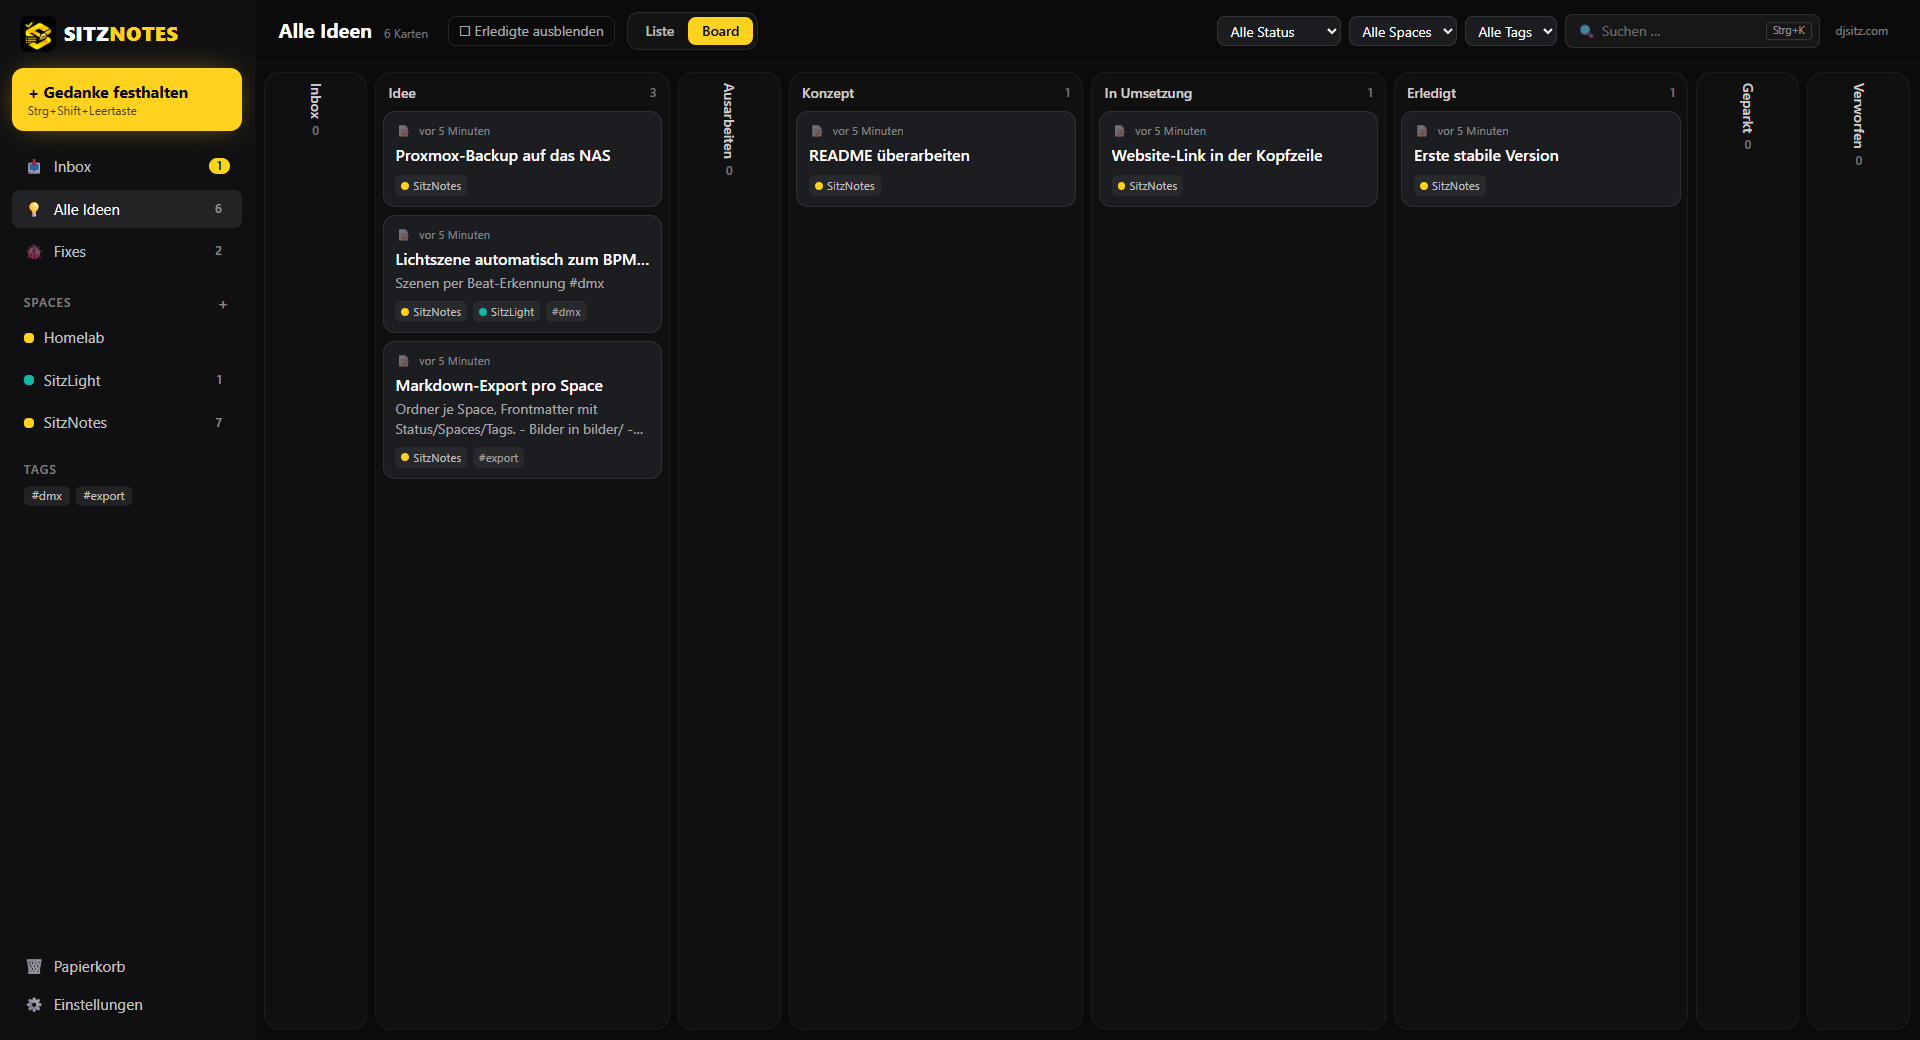
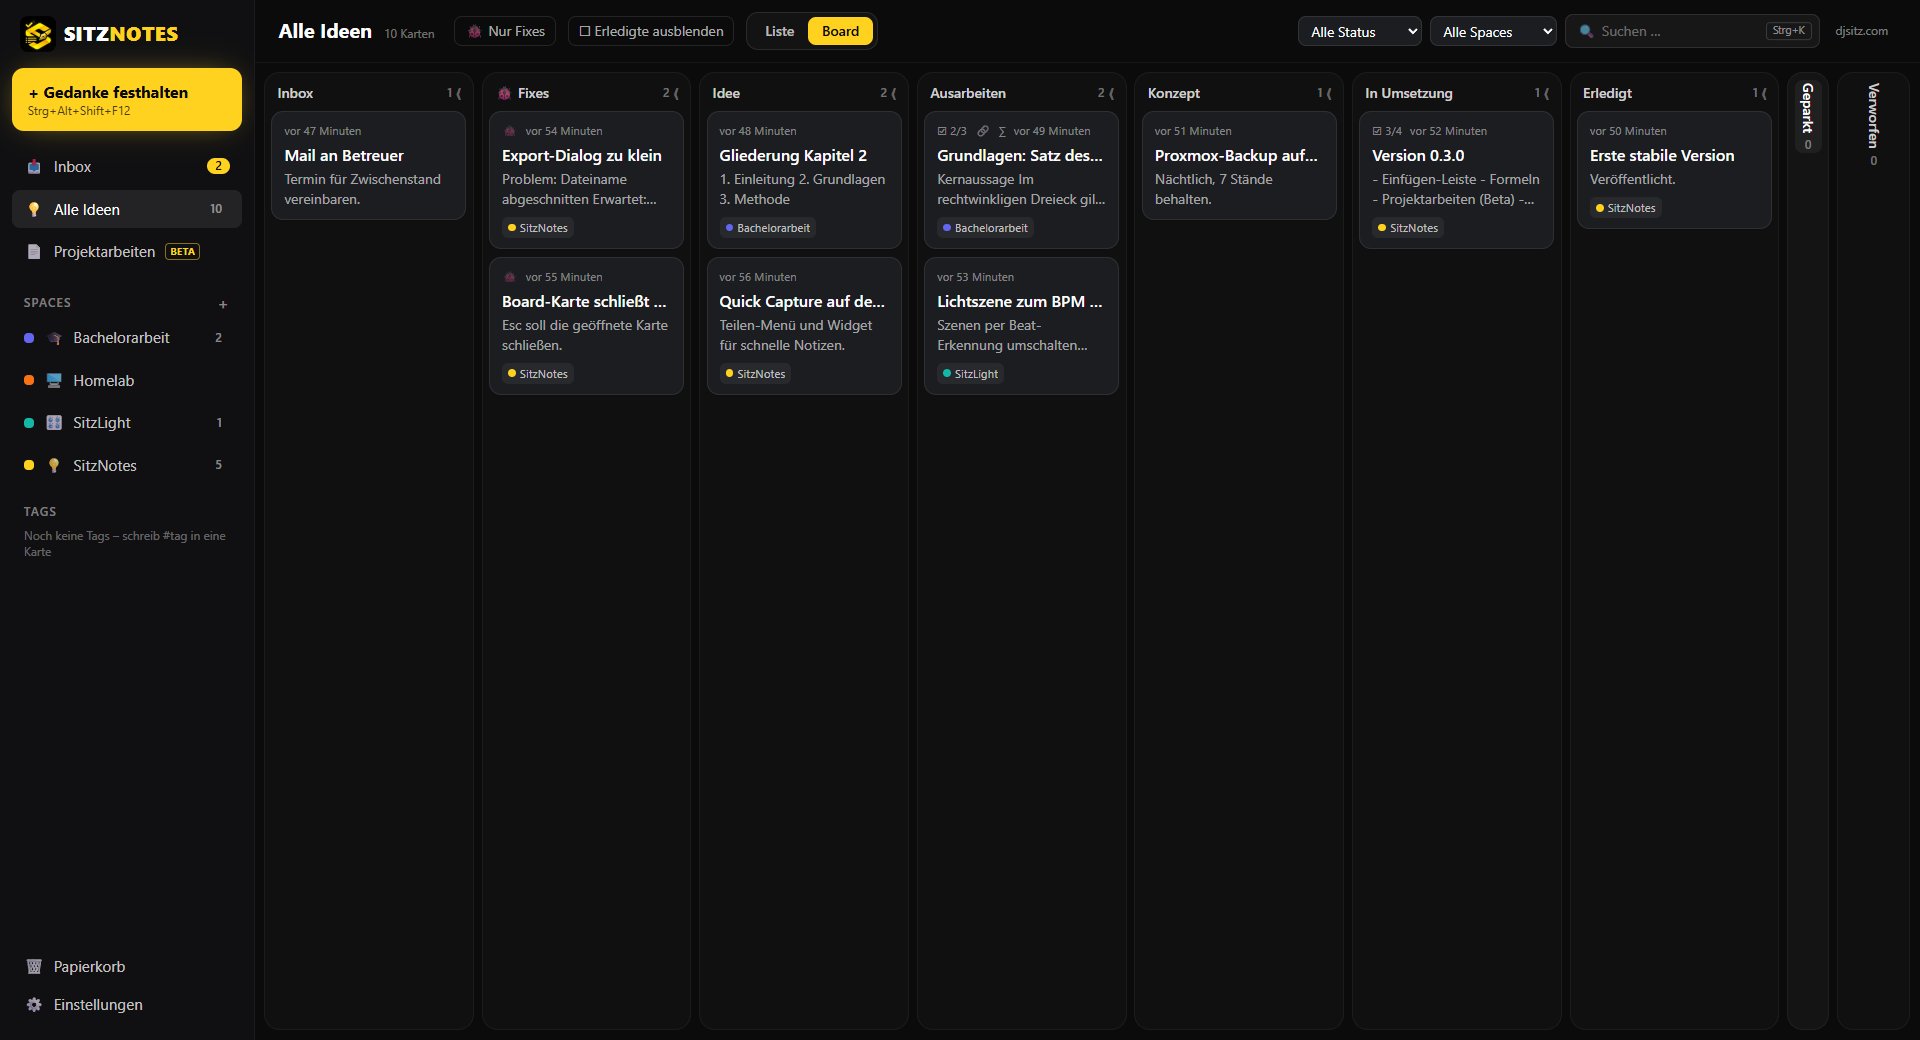
README: Funktionen, Updates in der App, Projektarbeiten (Beta) und Tipps zu v0.3.0

diff --git a/README.md b/README.md
@@ -30,20 +30,29 @@
 ## Was SitzNotes kann
 
 - **Quick Capture von überall:** Ein Tastenkürzel öffnet ein kleines Eingabefenster über allen Programmen – tippen, Enter, fertig. Der Gedanke landet in der **Inbox**.
-- **Karten** mit Titel und Text (Markdown: fett, Listen, Tabellen, Links …). Arten: Text, Link, Bild, Checkliste und **🐞 Fix**.
+- **Ein Gedanke kann alles enthalten:** Text, Überschriften, **Checklisten** (direkt abhakbar), Links, Tabellen, **Bilder** und **Formeln** gemischt in einem Inhalt (Markdown).
+- **Einfügen-Leiste** über dem Text – Überschrift, Checkliste, Bild, Link, Fix, Formel, Tabelle, Code – oder einfach **„/" tippen** (z. B. `/checkliste`, `/formel`).
+- **Formeln in LaTeX-Schreibweise:** `$E = mc^2$` im Text oder als eigener Block mit `$$ … $$`.
 - **Zuordnen:** Spaces (Projekte/Themen mit Farbe und Icon), Tags (`#tag` im Text wird automatisch erkannt), Status von „Inbox" bis „Erledigt". SitzNotes schlägt passende Spaces vor („gehört wahrscheinlich zu …"). Eine Karte kann in mehreren Spaces liegen.
 - **Verknüpfungen** zwischen Karten: gehört zu, inspiriert von, blockiert, Alternative zu, Teil von.
-- **Fixes:** eigener Bereich für Fehler und Korrekturen – getrennt von den Ideen, nach Space filterbar.
-- **Liste und Board** (Kanban nach Status mit Drag & Drop), Schalter **„Erledigte ausblenden"**.
+- **Fixes 🐞:** eigene Spalte im Board direkt nach der Inbox; Schalter **„Nur Fixes"** zeigt nur Fehler und Korrekturen.
+- **Liste und Board** (Kanban nach Status mit Drag & Drop), **Spalten auf- und zuklappbar**, Schalter **„Erledigte ausblenden"**.
+- **Projektarbeiten (Beta):** wissenschaftliche Arbeiten, Bachelorarbeiten und andere Dokumente in **LaTeX** schreiben – mit **PDF-Vorschau** daneben, die sich nach dem Tippen selbst erneuert, verständlicher **Fehleranzeige** (Klick springt zur Zeile), Vorlage **„Wissenschaftliche Arbeit (deutsch)"** (Titelseite, Verzeichnisse, Literatur, deutsche Silbentrennung), deinen Notizen zum Einfügen und Export als PDF oder ZIP. Bestehende LaTeX-Projekte lassen sich als Kopie importieren.
 - **Volltextsuche** (auch Wortanfänge, Umlaute egal), Filter nach Status/Space/Tag, **Schnellsuche mit Strg+K**.
 - **Bilder** per Drag & Drop oder Einfügen (z. B. Bildschirmausschnitt).
 - **Export & Import:** alles oder einzelne Spaces als `.sitznotes`-Datei (Import führt zusammen, nichts wird doppelt) und als **Markdown + Bilder** – ein Ordner je Space, lesbar in jedem Editor oder z. B. in Obsidian.
 - **Automatische Sicherung** täglich (die letzten 10 Stände) und **vor jedem Update**.
+- **Updates direkt in SitzNotes:** Hinweis mit den Neuerungen, „Jetzt installieren" oder „Später" – nie ungefragt.
+- **Papierkorb** mit „Endgültig löschen" und „Papierkorb leeren" (mit Sicherheitsabfrage), auf Wunsch automatisch nach einer gewählten Zahl von Tagen.
 - **Passt sich deinem Monitor an:** von Laptop bis 4K, mit jeder Windows-Skalierung und auf Retina-Displays.
 - Dunkles Design, alle Links öffnen im Standard-Browser.
 
 <p align="center">
-  <img src="assets/screenshots/sitznotes-board.png" alt="SitzNotes: Board nach Status" width="900">
+  <img src="assets/screenshots/sitznotes-board.png" alt="SitzNotes: Board nach Status mit Fixes-Spalte" width="900">
+</p>
+
+<p align="center">
+  <img src="assets/screenshots/sitznotes-projektarbeit.png" alt="SitzNotes: Projektarbeit mit LaTeX-Editor und PDF-Vorschau (Beta)" width="900">
 </p>
 
 ## Installation
@@ -65,8 +74,17 @@ Mit `SHA256SUMS.txt` kannst du prüfen, ob der Download unverändert ist.
 
 ### Updates
 
-**Neue Version einfach über die alte installieren – deine Daten bleiben erhalten.**
-Vor jeder Umstellung der Datenbank legt SitzNotes automatisch eine Sicherung an
+**Ab Version 0.3.0 kommen Updates direkt in SitzNotes:** Gibt es eine neue Version, erscheint oben ein dezenter Hinweis
+mit Versionsnummer und Neuerungen – **„Jetzt installieren"** oder **„Später"**. Es wird nie ungefragt installiert.
+Selbst suchen: **Einstellungen → Updates → „Nach Updates suchen"**; die automatische Suche (beim Start und alle 6 Stunden)
+lässt sich dort abschalten. Updates sind digital signiert – SitzNotes installiert nur Updates, die wirklich von SitzNotes stammen.
+
+Von Version 0.1.0 oder 0.2.0 aus installierst du 0.3.0 einmal von Hand: **einfach über die alte Version installieren – deine Daten bleiben erhalten**
+und werden automatisch ins neue Format übernommen (Link-, Bild-, Checklisten- und Fix-Karten werden zu normalen Gedanken mit diesem Inhalt).
+Nimm dafür **dasselbe Paket wie bei der ersten Installation** – wer mit dem `.msi` installiert hat, wieder das `.msi`, sonst die `setup.exe`.
+In-App-Updates erkennen das selbst.
+
+Vor jedem Update und jeder Umstellung der Datenbank legt SitzNotes automatisch eine Sicherung an
 (`Sicherungen/vor-update-<version>-<datum>` im Datenordner, zusätzlich in deinem gewählten Sicherungsordner).
 Geht dabei etwas schief, wird der alte Stand wiederhergestellt – SitzNotes läuft nie mit halb umgestellten Daten weiter.
 
@@ -86,37 +104,52 @@ und die Sicherungen darin gelöscht.
 | **Strg+K** | Schnellsuche über alle Karten |
 | **↑ / ↓** (oder J / K) | durch die Liste bewegen |
 | **S** / **T** | Space bzw. Tag zuordnen |
-| **1 – 8** | Status setzen (Inbox … Verworfen) |
+| **1 – 9** | Status setzen (Inbox, Fixes, Idee … Verworfen) |
 | **Enter** | Vorschlag „gehört wahrscheinlich zu …" annehmen |
 | **Entf** | in den Papierkorb |
 | **Strg+Enter** oder **Esc** | beim Bearbeiten: **Fertig** |
+| **/** | beim Bearbeiten: Baustein einfügen (Checkliste, Formel, Bild …) |
+| **Strg+S** | in einer Projektarbeit: speichern und PDF sofort erzeugen |
 | **Esc** | Karte schließen |
 
 Auf dem Mac jeweils **⌘** statt **Strg**.
 
 ## Tipps zur Nutzung
 
-- **Erst festhalten, später sortieren.** Mit dem Quick-Capture-Kürzel schreibst du den Gedanken in Sekunden auf, ohne das aktuelle Programm zu verlassen. Die erste Zeile wird zum Titel, ein reiner Link wird zur Link-Karte.
-- **Inbox-Routine:** Einmal am Tag die Inbox öffnen und mit der Tastatur durchgehen – **S** für den Space, **T** für Tags, **1–8** für den Status, **Enter** übernimmt den Vorschlag. Ziel: Inbox leer.
+- **Erst festhalten, später sortieren.** Mit dem Quick-Capture-Kürzel schreibst du den Gedanken in Sekunden auf, ohne das aktuelle Programm zu verlassen. Die erste Zeile wird zum Titel, der Rest zum Inhalt.
+- **Inbox-Routine:** Einmal am Tag die Inbox öffnen und mit der Tastatur durchgehen – **S** für den Space, **T** für Tags, **1–9** für den Status, **Enter** übernimmt den Vorschlag. Ziel: Inbox leer.
+- **Alles in einen Gedanken:** Notiz schreiben, mit **/checkliste** Aufgaben dazu, ein Bildschirmfoto mit **Strg+V** direkt an die Stelle, eine Formel mit **/formel** – in der Vorschau hakst du Aufgaben direkt ab.
 - **Spaces für Projekte, Tags für Querschnittsthemen.** Ein Space ist z. B. „Homelab" oder „Musik", ein Tag z. B. `#idee-für-später` oder `#kaufen` – Tags schreibst du einfach mit `#` in den Text.
-- **Fehler gehören zu den Fixes.** Beginnt eine Quick-Capture-Notiz mit `fix:`, wird sie zur Fix-Karte 🐞. Im Bereich „Fixes" siehst du alle offenen Fehler, auf Wunsch nur die eines Space.
-- **Board für den Überblick:** Karten per Drag & Drop in die nächste Spalte ziehen; „Erledigte ausblenden" hält das Board übersichtlich.
+- **Fehler gehören zu den Fixes.** Beginnt eine Quick-Capture-Notiz mit `fix:`, landet sie in der Spalte „🐞 Fixes". Mit **„Nur Fixes"** in der Kopfzeile siehst du alle offenen Fehler, zusammen mit dem Space-Filter nur die eines Projekts.
+- **Board für den Überblick:** Karten per Drag & Drop in die nächste Spalte ziehen; Spalten, die du gerade nicht brauchst, per Klick auf den Spaltenkopf zuklappen; „Erledigte ausblenden" hält das Board übersichtlich.
+- **Projektarbeit neben den Notizen:** Ordne die Projektarbeit dem Space mit deinen Recherche-Notizen zu – unter „Notizen" stehen sie neben dem Editor und lassen sich per Klick als LaTeX einfügen. Bilder einfach in die Dateiliste oder den Editor ziehen.
 - **Verknüpfen statt kopieren:** Gehört eine Idee zu einer anderen, verknüpfe sie – in beiden Karten ist die Verbindung sichtbar.
 - **Diktieren statt tippen:** Systemeigenes Diktieren funktioniert in jedem Textfeld von SitzNotes – **Windows: Win+H**, **macOS: Diktierfunktion** (z. B. zweimal **Fn** bzw. die **Globus-Taste**).
 - **Sicherungsordner außerhalb des App-Datenordners wählen** (Einstellungen → Sicherungsordner), z. B. **Dokumente**, ein **NAS** oder ein Cloud-Ordner. Dann überstehen deine Sicherungen auch eine Deinstallation oder einen Rechnerwechsel.
 - **Zwischen Geräten übertragen:** auf dem einen Gerät „Alles exportieren (.sitznotes)", auf dem anderen importieren – SitzNotes führt zusammen und behält jeweils die neueste Änderung.
 - **Markdown-Export** (Einstellungen oder Space-Menü „⋯") für eine lesbare Kopie: ein Ordner je Space, Bilder im Unterordner `bilder`, Fixes im Unterordner `Fixes`.
+- **Papierkorb aufräumen:** Gelöschte Karten liegen im Papierkorb, bis du sie endgültig löschst („Papierkorb leeren"). Wer möchte, stellt in den Einstellungen „Automatisch leeren nach … Tagen" ein – standardmäßig ist das aus.
+
+## Projektarbeiten (Beta) – LaTeX
+
+- **Neue Projektarbeit:** Seitenleiste → **Projektarbeiten** → „Neue Projektarbeit", Vorlage **„Wissenschaftliche Arbeit (deutsch)"** oder **„Leer"** wählen.
+- **LaTeX-Engine:** Ist **MiKTeX**, **TeX Live** oder **MacTeX** installiert, nutzt SitzNotes diese automatisch (inkl. BibTeX und Biber). Sonst kommt das mitgelieferte **Tectonic** zum Einsatz: Beim **ersten** Erzeugen eines PDFs lädt es die benötigten LaTeX-Pakete einmalig aus dem Internet (etwa 40 MB, 1–2 Minuten), danach funktioniert alles **offline**. Die Engine lässt sich je Projektarbeit umstellen.
+- **Literaturverzeichnis:** Die Vorlage nutzt BibTeX (`literatur.bib`, `\cite{…}`) – das funktioniert mit allen Engines. biblatex/Biber geht mit einer installierten Distribution.
+- **Import:** „Ordner importieren" bzw. „ZIP importieren" übernimmt ein bestehendes LaTeX-Projekt als **Kopie** – deine Originaldateien werden nie verändert.
+- **Sicherung:** Projektarbeiten sind in den automatischen Sicherungen, den Sicherungen vor Updates und im `.sitznotes`-Export enthalten.
+- Es ist eine **Beta**: Bitte bei wichtigen Arbeiten zusätzlich regelmäßig „Projekt als ZIP" exportieren und Fehler als Issue melden.
 
 ## Datenschutz
 
-- Alle Karten, Bilder und Einstellungen liegen **nur lokal** auf deinem Gerät (Windows: `%APPDATA%\de.sitzmedia.sitznotes`, macOS: `~/Library/Application Support/de.sitzmedia.sitznotes`).
+- Alle Karten, Bilder, Projektarbeiten und Einstellungen liegen **nur lokal** auf deinem Gerät (Windows: `%APPDATA%\de.sitzmedia.sitznotes`, macOS: `~/Library/Application Support/de.sitzmedia.sitznotes`).
 - **Kein Konto, kein Server, keine Telemetrie.** SitzNotes funktioniert vollständig ohne Internet.
+- Ins Internet geht SitzNotes nur für die **Update-Suche** (eine kleine Abfrage bei GitHub, abschaltbar) und – nur wenn du Projektarbeiten mit dem mitgelieferten Tectonic nutzt – zum einmaligen Laden von LaTeX-Paketen. Dabei werden keine Daten von dir übertragen.
 - Links öffnen immer in deinem Standard-Browser, nie in der App.
 
 ## Bekannte Einschränkungen
 
-- Installer sind noch nicht digital signiert (Hinweise oben bei der Installation).
-- Keine automatische Update-Prüfung – neue Versionen findest du unter [Releases](https://github.com/Sitz9/sitznotes-releases/releases).
+- Installer sind noch nicht digital signiert (Hinweise oben bei der Installation); die Updates selbst sind signiert.
+- Projektarbeiten sind eine **Beta**. Mit dem mitgelieferten Tectonic gibt es kein Biber (biblatex) – dafür BibTeX/natbib nutzen oder MiKTeX/TeX Live installieren.
 - Noch nicht enthalten: iPhone/iPad, Sprachaufnahme, Zeichnen, Mindmap/Canvas, Wireframes, Termine und Erinnerungen – diese kommen in späteren Versionen.
 - Kein automatischer Abgleich zwischen Geräten – Übertragung per Export/Import.
 
